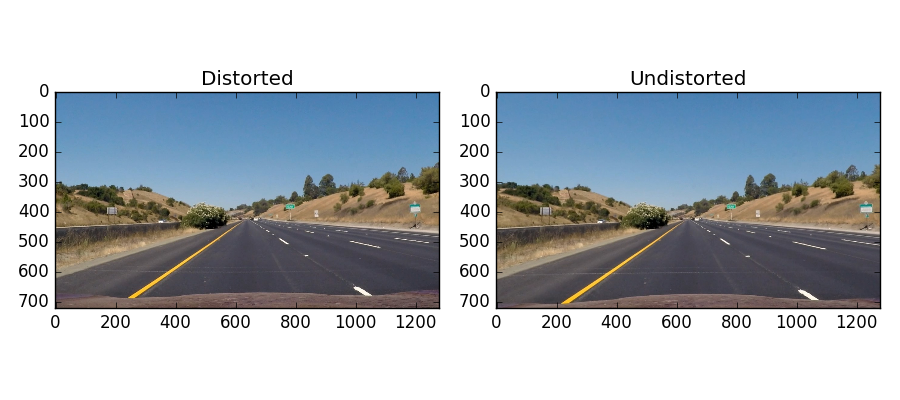
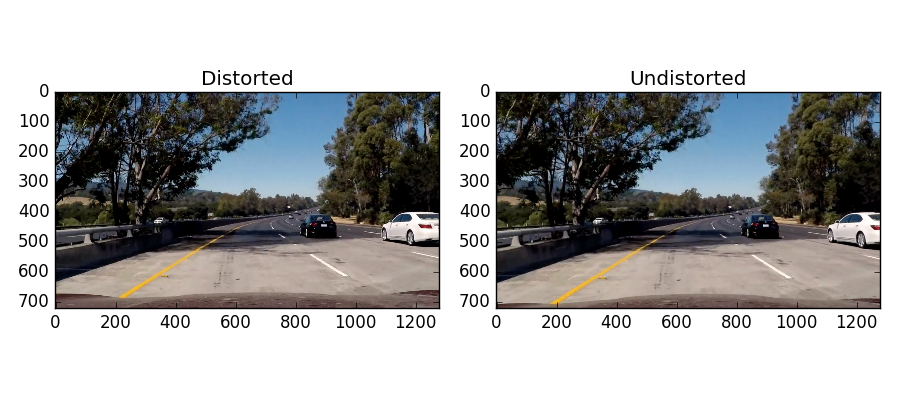
Lane curvature

diff --git a/helpers.py b/helpers.py
@@ -33,13 +33,13 @@ def helper_one():
     ax2 = fig.add_subplot(122)
     ax2.set_title('Undistorted')
     
-    example_img = mpimg.imread('camera_cal/calibration1.jpg')
+    example_img = mpimg.imread('test_images/test5.jpg')
     undst_example_img = transformer.undistort(example_img)
     ax1.imshow(example_img, cmap='gray')
     ax2.imshow(undst_example_img, cmap='gray')
     plt.tight_layout()
     plt.show()
-    fig.savefig("output_images/undistorted_output.png")
+    fig.savefig("output_images/undistorted_test.png")
 
 def helper_two():
     mtx = np.loadtxt("model/mtx.dat")
@@ -195,7 +195,7 @@ def helper_five():
     ax1.imshow(warped, cmap='gray')
     ax1.set_xlim(0, warped.shape[1])
     ax1.set_ylim(warped.shape[0],0)
-    ax1.set_title("Thresholded Image")  
+    ax1.set_title("Warped Image")  
     
     ax2 = fig.add_subplot(1,2,2)
     ax2.imshow(out_img, cmap='gray')
@@ -209,4 +209,4 @@ def helper_five():
 
 if __name__ == '__main__':
 
-    helper_five()
+    helper_six()

diff --git a/README.md b/README.md
@@ -1,4 +1,4 @@
-**Advanced Lane Finding Project**
+# Advanced Lane Finding
 
 The goals / steps of this project are the following:
 
@@ -84,14 +84,13 @@ Then we define a number of sliding windows and loop through them in order to ide
 
 The function described can be found in `lanefinder.py` and `sliding_window()`.
 
+####5. Line Curvature
 
+In the `lanefinder.py` function and the `get_curvature()` function I calculate the curvature using the formula:
 
+R_curve = (1 + (2Ay+B)<sup>2</sup>)<sup>3/2</sup> / |2A|
 
-####5. Describe how (and identify where in your code) you calculated the radius of curvature of the lane and the position of the vehicle with respect to center.
-
-I did this in lines # through # in my code in `my_other_file.py`
-
-####6. Provide an example image of your result plotted back down onto the road such that the lane area is identified clearly.
+####6. Final Result
 
 I implemented this step in lines # through # in my code in `yet_another_file.py` in the function `map_lane()`.  Here is an example of my result on a test image:
 
